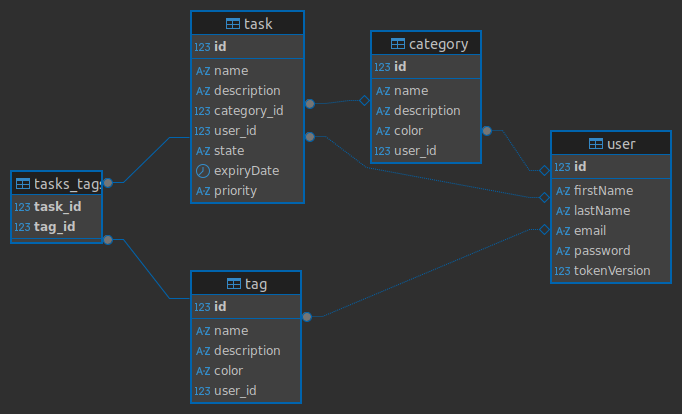
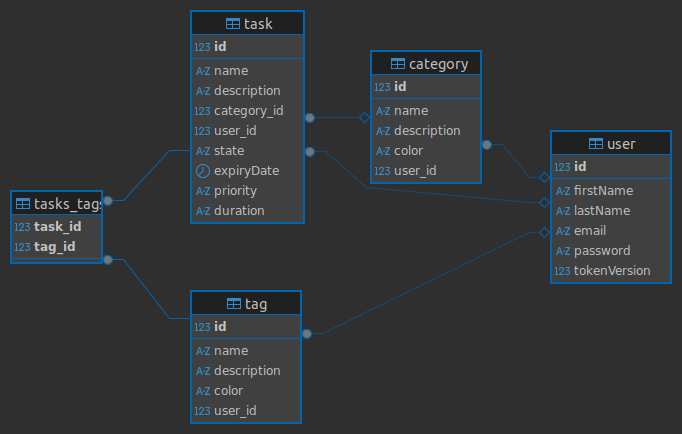
docs: add Node.js version config and update documentation with setup guides

diff --git a/web/README.md b/web/README.md
@@ -1,69 +1,71 @@
-# React + TypeScript + Vite
+# 📝 Taskcy App
 
-This template provides a minimal setup to get React working in Vite with HMR and some ESLint rules.
+Taskcy Web is a simple and complementary task management app.
 
-Currently, two official plugins are available:
+## 🚀 Requirements
 
-- [@vitejs/plugin-react](https://github.com/vitejs/vite-plugin-react/blob/main/packages/plugin-react) uses [Babel](https://babeljs.io/) for Fast Refresh
-- [@vitejs/plugin-react-swc](https://github.com/vitejs/vite-plugin-react/blob/main/packages/plugin-react-swc) uses [SWC](https://swc.rs/) for Fast Refresh
+- [Node.js](https://nodejs.org/) (recommended version in `.nvmrc`)
+- [Yarn](https://yarnpkg.com/)
 
-## Expanding the ESLint configuration
+## 📦 Installation
 
-If you are developing a production application, we recommend updating the configuration to enable type-aware lint rules:
+Clone this repository and install dependencies:
 
-```js
-export default tseslint.config([
-  globalIgnores(['dist']),
-  {
-    files: ['**/*.{ts,tsx}'],
-    extends: [
-      // Other configs...
+```bash
+yarn install
+````
 
-      // Remove tseslint.configs.recommended and replace with this
-      ...tseslint.configs.recommendedTypeChecked,
-      // Alternatively, use this for stricter rules
-      ...tseslint.configs.strictTypeChecked,
-      // Optionally, add this for stylistic rules
-      ...tseslint.configs.stylisticTypeChecked,
+## ⚙ Environment setup
 
-      // Other configs...
-    ],
-    languageOptions: {
-      parserOptions: {
-        project: ['./tsconfig.node.json', './tsconfig.app.json'],
-        tsconfigRootDir: import.meta.dirname,
-      },
-      // other options...
-    },
-  },
-])
+1. Copy the `.env.example` file to `.env`:
+
+```bash
+cp .env.example .env
 ```
 
-You can also install [eslint-plugin-react-x](https://github.com/Rel1cx/eslint-react/tree/main/packages/plugins/eslint-plugin-react-x) and [eslint-plugin-react-dom](https://github.com/Rel1cx/eslint-react/tree/main/packages/plugins/eslint-plugin-react-dom) for React-specific lint rules:
+2. Update the `.env` file with your own environment variables.
 
-```js
-// eslint.config.js
-import reactX from 'eslint-plugin-react-x'
-import reactDom from 'eslint-plugin-react-dom'
+## ▶ Available scripts
 
-export default tseslint.config([
-  globalIgnores(['dist']),
-  {
-    files: ['**/*.{ts,tsx}'],
-    extends: [
-      // Other configs...
-      // Enable lint rules for React
-      reactX.configs['recommended-typescript'],
-      // Enable lint rules for React DOM
-      reactDom.configs.recommended,
-    ],
-    languageOptions: {
-      parserOptions: {
-        project: ['./tsconfig.node.json', './tsconfig.app.json'],
-        tsconfigRootDir: import.meta.dirname,
-      },
-      // other options...
-    },
-  },
-])
+In the project directory you can run:
+
+* **Start in development:**
+
+```bash
+yarn dev
 ```
+
+* **Build for production:**
+
+```bash
+yarn build
+```
+
+* **Preview the production build:**
+
+```bash
+yarn preview
+```
+
+## 🛠 Main technologies
+
+* React
+* Vite
+* Yarn
+
+## 📁 Project Structure
+
+Dentro de la carpeta `src` se encuentran las siguientes carpetas y archivos principales:
+
+- `assets/` — Recursos estáticos como imágenes, fuentes, etc.
+- `components/` — Componentes reutilizables organizados en:
+  - `atoms/`
+  - `layouts/`
+  - `molecules/`
+  - `organisms/`
+  - `templates/`
+- `context/` — Contextos para manejo de estado global.
+- `hooks/` — Hooks personalizados de React.
+- `pages/` — Páginas principales de la aplicación.
+- `types/` — Definiciones de tipos TypeScript.
+- `wrappers/` — Componentes envoltorios para funcionalidades adicionales.

diff --git a/README.md b/README.md
@@ -1,1 +1,29 @@
-# Taskcy
+# 📝 Taskcy Monorepo
+
+This repository contains both the **frontend** and **backend** of Taskcy.
+
+## 📂 Structure
+
+- `web/` → Frontend application
+- `server/` → Backend application
+
+## ⚙ Node.js version
+
+Both projects run with the same Node.js version defined in [`.nvmrc`](.nvmrc).
+We recommend using [NVM](https://github.com/nvm-sh/nvm) to ensure the correct version.
+
+### Using NVM
+
+Run the following command at the root of the project:
+
+```bash
+nvm use
+````
+
+If you don’t have the required Node.js version installed, run:
+
+```bash
+nvm install
+```
+
+This will automatically set the correct version based on `.nvmrc`.

diff --git a/server/README.md b/server/README.md
@@ -63,6 +63,16 @@ You can find the database schema in the image below:
 
 ![Database Schema](./images/schema.png)
 
+## ⚠ Migration errors
+
+If you encounter errors when running migrations, temporarily add the following line **inside `compilerOptions`** in your **tsconfig.json**:
+
+```json
+"types": ["node"]
+```
+
+After the migration has completed successfully, remove this line.
+
 ---
 
 ## 🚀 Getting Started
